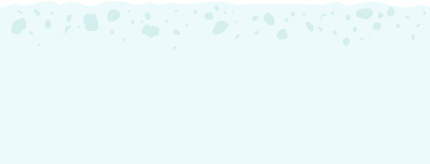
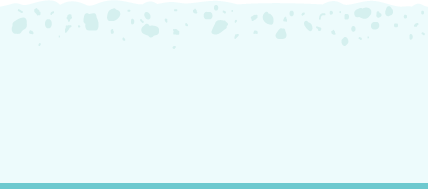
ground and cats

diff --git a/src/HotScroll.Client/HotScroll.Client/HotScroll.Client/pages/game/game.html b/src/HotScroll.Client/HotScroll.Client/HotScroll.Client/pages/game/game.html
@@ -44,7 +44,7 @@
             left: 0;
             width: 100%;
             height: 100%;
-            border-bottom: 171px solid #6dc9cf;
+            border-bottom: 165px solid #6dc9cf;
             background: -webkit-linear-gradient(top, #5cd0d7, #a5e9ec);
             background: -ms-linear-gradient(top, #5cd0d7, #a5e9ec);
             box-sizing: border-box;
@@ -157,6 +157,7 @@
         }
 
         #environment {
+            z-index: 1;
             position: absolute;
             width: 100%;
             height: 100%;
@@ -172,7 +173,7 @@
             height: 211px;
             margin-top: 6.5%;
             background: url("../../images/gameplay/Clouds_pattern.png") repeat-x 0 0;
-            animation: clouds 60s linear infinite;
+            animation: clouds 45s linear infinite;
         }
 
         #environment #mountains {
@@ -183,8 +184,58 @@
             bottom: 0;
             left: 0;
             background: url("../../images/gameplay/Mountain_pattern.png") repeat-x 0 0;
-            margin-bottom: 170px;
+            margin-bottom: 176px;
             transition: background-position 0.1s linear;
+        }
+
+        #environment #ground {
+            z-index: 3;
+            width: 100%;
+            height: 189px;
+            position: absolute;
+            bottom: 0;
+            left: 0;
+            background: url("../../images/gameplay/Ground_pattern.png") repeat-x 0 0;
+            transition: background-position 0.1s linear;
+        }
+
+        #players {
+            position: absolute;
+            top: 0;
+            left: 0;
+            width: 100%;
+            height: 100%;
+            z-index: 2;
+        }
+
+        #players .player {
+            position: absolute;
+            width: 350px;
+            height: 310px;
+            background-size: cover;
+            background-repeat: no-repeat;
+            background-position: 0 0;
+            left: 50%;
+            bottom: 0;
+            margin-left: -150px;
+        }
+
+        .player.pink {
+            background-image: url("../../images/gameplay/pink-cat.png");
+        }
+
+        .player.green {
+            background-image: url("../../images/gameplay/green-cat.png");
+        }
+
+        #currentPlayer {
+            z-index: 2;
+            margin-bottom: 80px;
+        }
+
+        #opponentPlayer {
+            z-index: 1;
+            margin-bottom: 140px;
         }
 
         #tracks {
@@ -247,8 +298,12 @@
         <div id="environment">
             <div id="clouds"></div>
             <div id="mountains"></div>
+            <div id="ground"></div>
         </div>
-        <div id="players"></div>
+        <div id="players">
+            <figure class="player pink" id="opponentPlayer"></figure>
+            <figure class="player green" id="currentPlayer"></figure>
+        </div>
         <div id=""></div>
     </div>
     <div id="progressBar">

diff --git a/src/HotScroll.Client/HotScroll.Client/HotScroll.Client/js/PLayer.js b/src/HotScroll.Client/HotScroll.Client/HotScroll.Client/js/PLayer.js
@@ -2,11 +2,40 @@ function Player (name, isOpponent) {
 
     this.name = name;
     this.score = 0;
-    //this.element = document.querySelector(isOpponent ? '#opponentPlayer' : '#currentPlayer');
+    this.element = document.querySelector(isOpponent ? '#opponentPlayer' : '#currentPlayer');
+    this.element.style.backgroundPosition = '0 0';
     this.icon = document.querySelector(isOpponent ? '#opponentIcon' : '#currentIcon');
+    this.timestamp = new Date().getTime();
 }
 
 Player.prototype.setScore = function (score) {
     this.score = score;
-    this.icon.style.left = (this.score / game.TOTAL_SCORE) * 100 + '%';
+    var scorePercent = (this.score / game.TOTAL_SCORE) * 100;
+    this.icon.style.left = scorePercent + '%';
+    Environment.move(scorePercent);
+};
+
+Player.prototype.animateCat = function (timeout, direction) {
+    var that = this;
+    var bgPos = parseInt(this.element.style.backgroundPosition, 10);
+    bgPos -= 350 * direction;
+    if (Math.abs(bgPos) > 7700) {
+        this.element.style.backgroundPosition = '0 0';
+    } else if (bgPos > 0) {
+        this.element.style.backgroundPosition = -7700 + 'px 0';
+    } else {
+        this.element.style.backgroundPosition = bgPos + 'px 0';
+    }
+    var newTimeout = Math.pow(timeout, 1.05);
+    if (timeout < 120) {
+        that.interval = setTimeout(function () {
+            that.animateCat(newTimeout, direction);
+        }, newTimeout);
+    }
+};
+
+Player.prototype.playAnimation = function (event, direction) {
+    clearTimeout(this.interval);
+    this.animateCat(event.timeStamp - this.timestamp, direction);
+    window.timestamp = event.timeStamp;
 };

diff --git a/src/HotScroll.Client/HotScroll.Client/HotScroll.Client/pages/game/game.js b/src/HotScroll.Client/HotScroll.Client/HotScroll.Client/pages/game/game.js
@@ -11,6 +11,7 @@
             });
 
             this._prepareLevel(game.duel.Level);
+            Environment.initialize();
             this.currentPlayer = new Player(game.player.Name, false);
             this._startCountdown(3);
         },
@@ -59,6 +60,7 @@
                     newScore = that.currentPlayer.score + direction;
                 if (newScore < game.TOTAL_SCORE && newScore >= 0) {
                     that.currentPlayer.setScore(that.currentPlayer.score + direction);
+                    that.currentPlayer.playAnimation(event, direction);
                 } else if (newScore === game.TOTAL_SCORE) {
 
                 }

diff --git a/src/HotScroll.Client/HotScroll.Client/HotScroll.Client/js/Environment.js b/src/HotScroll.Client/HotScroll.Client/HotScroll.Client/js/Environment.js
@@ -1,0 +1,11 @@
+var Environment = {
+    initialize: function () {
+        this.mountains = document.querySelector('#mountains');
+        this.ground = document.querySelector('#ground');
+    },
+
+    move: function (scorePercent) {
+        this.mountains.style.backgroundPosition = -scorePercent * 7 + '% 0';
+        this.ground.style.backgroundPosition = -scorePercent * 14 + '% 0';
+    }
+};

diff --git a/src/HotScroll.Client/HotScroll.Client/HotScroll.Client/default.html b/src/HotScroll.Client/HotScroll.Client/HotScroll.Client/default.html
@@ -21,6 +21,7 @@
     <script src="js/navigator.js"></script>
     <script src="js/default.js"></script>
     <script src="js/Player.js"></script>
+    <script src="js/Environment.js"></script>
 </head>
 <body>
     <div id="contenthost" data-win-control="Application.PageControlNavigator" data-win-options="{home: '/pages/login/login.html'}"></div>
